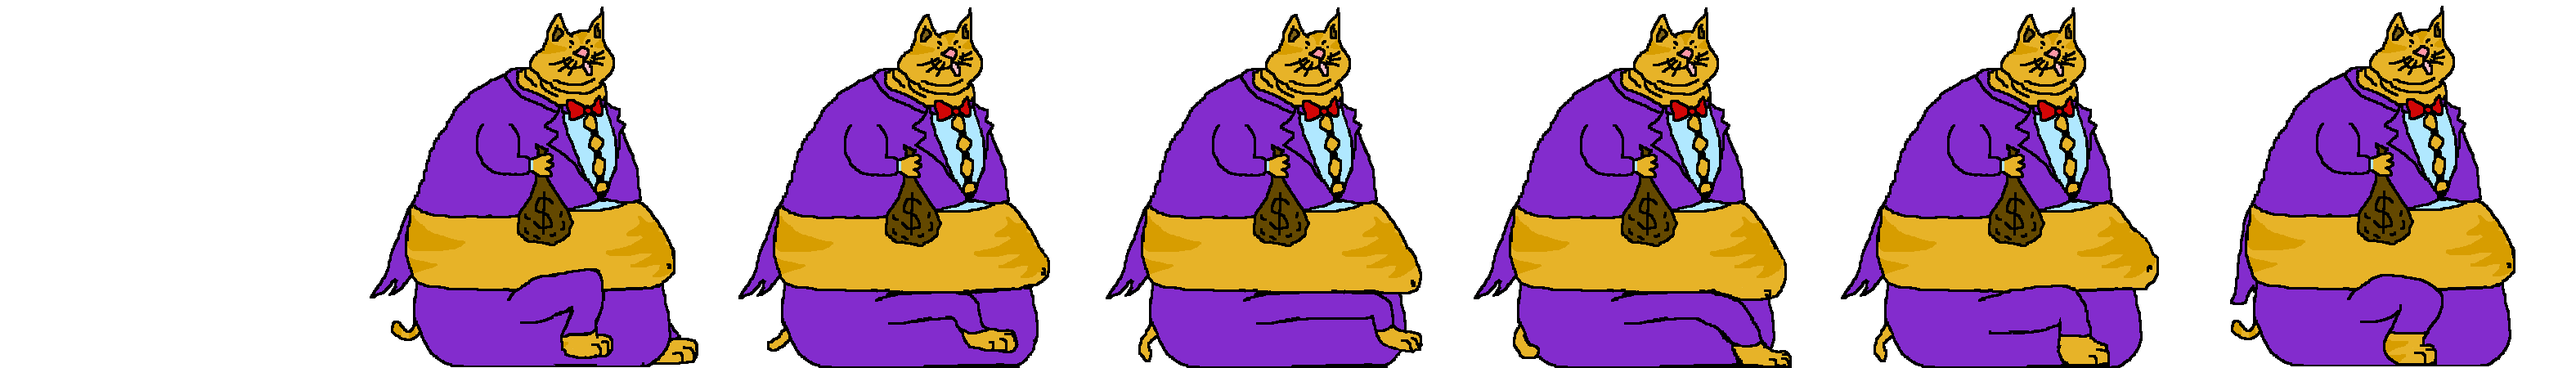
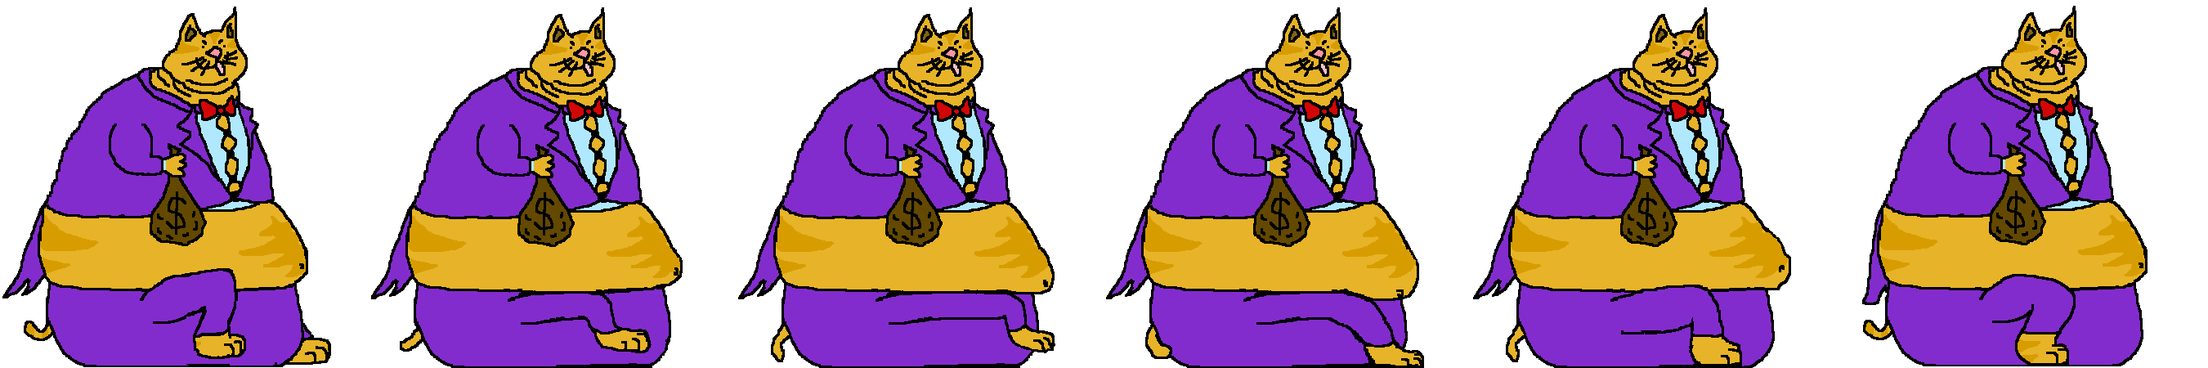
OH GOD
WTF

diff --git a/GameSlamProject/GameSlamProject/GameSlamProject/Game1.cs b/GameSlamProject/GameSlamProject/GameSlamProject/Game1.cs
@@ -29,6 +29,8 @@ namespace GameSlamProject
 
         List<SpriteSheet> repEnemySpriteSheets = new List<SpriteSheet>();
 
+        Enemy testee2;
+
         Sprite healthBar;
         SpriteFont HUDfont;
         TextItem healthText;
@@ -48,7 +50,7 @@ namespace GameSlamProject
          * RESTEE TESTEE
          */
 
-        Boss corporateFatCat;
+        Enemy corporateFatCat;
 
         #region Map Particles
         List<Particle> particles = new List<Particle>();
@@ -116,8 +118,15 @@ namespace GameSlamProject
             dunkin.pos = new Vector2(dunkin.spriteSheets[0].tex.Width + 125, world.GROUND_HEIGHT - dunkin.spriteSheets[0].tex.Height / 2);
             #endregion
 
-            repEnemySpriteSheets.Add(new SpriteSheet(Content.Load<Texture2D>("Rep1_Stand"), 60, 146, 1, 0, true));
-            repEnemySpriteSheets.Add(new SpriteSheet(Content.Load<Texture2D>("Rep_Run_cleansheet"), 70, 148, 8, 200, true));
+            repEnemySpriteSheets.Add(new SpriteSheet(Content.Load<Texture2D>("Fat_Cat"), 60, 146, 1, 0, true));
+            //repEnemySpriteSheets.Add(new SpriteSheet(Content.Load<Texture2D>("Rep_Run_cleansheet"), 70, 148, 8, 75, true));
+            repEnemySpriteSheets.Add(new SpriteSheet(Content.Load<Texture2D>("FatCat_Run"), 450, 450, 6, 200, true));
+            //testee2 = new Enemy(repEnemySpriteSheets, 300, 3.0f, 7.0f, world);
+            //testee2.pos = new Vector2(testee2.tex.Width + 500, world.GROUND_HEIGHT - testee2.tex.Height);
+            //testee2.pos = new Vector2(testee2.tex.Width + 500, world.GROUND_HEIGHT - testee2.tex.Height);
+            //testee2.vel = new Vector2(5.0f, 0.0f);
+            //testee2.isAnimatable = true;
+            //world.enemyList.Add(testee2);
 
             attilla = new Eagle(Content.Load<Texture2D>("therealeagle"), 10, graphics);
             attilla.visible = false;
@@ -132,12 +141,14 @@ namespace GameSlamProject
             //testee.vel = new Vector2(5.0f, 0.0f);
             //world.enemyList.Add(testee);
 
-            corporateFatCat = new Boss(Content.Load<Texture2D>("Fat_Cat"));
-            corporateFatCat.alive = false;
-            corporateFatCat.visible = false;
+            corporateFatCat = new Enemy(repEnemySpriteSheets, 300, 2.0f, 2.0f, world);
+            corporateFatCat.alive = true;
+            corporateFatCat.visible = true;
+            corporateFatCat.isAnimatable = true;
             corporateFatCat.pos = new Vector2(corporateFatCat.tex.Width / 2 + 5000, world.GROUND_HEIGHT - corporateFatCat.tex.Height / 2);
-            corporateFatCat.vel = new Vector2(2.0f, 0.0f);
-            //world.enemyList.Add(corporateFatCat);
+            //corporateFatCat.pos.X = 500;
+            corporateFatCat.vel = new Vector2(-2.0f, 0.0f);
+            world.enemyList.Add(corporateFatCat);
             
             particleTex = Content.Load<Texture2D>("flixel");
             republicanTex = Content.Load<Texture2D>("Rep1_Stand");
@@ -251,11 +262,17 @@ namespace GameSlamProject
             world.enemyList.Add(new Enemy(republicanTex, 300, 3.0f, 7.0f, world));
             foreach (Enemy e in world.enemyList)
             {
-                e.isAnimatable = false;
-                //foreach (SpriteSheet sheet in e.spriteSheets)
-                //{
-                //    sheet.pos = e.pos;
-                //}
+                if (e != corporateFatCat)
+                {
+                    e.isAnimatable = false;
+                }
+                else
+                {
+                    foreach (SpriteSheet sheet in e.spriteSheets)
+                    {
+                        sheet.pos = e.pos;
+                    }
+                }
             }
             //world.enemyList[world.enemyList.Count - 1].pos = new Vector2(world.enemyList[world.enemyList.Count - 1].tex.Width / 2 + 500, world.GROUND_HEIGHT - world.enemyList[world.enemyList.Count - 1].tex.Height / 2);
 
@@ -292,7 +309,7 @@ namespace GameSlamProject
             }
             #endregion
 
-            corporateFatCat.Update(gameTime, dunkin, world, 0);
+            //corporateFatCat.Update(gameTime, dunkin, world, 0);
 
             #region Background Code
             if (dunkin.pos.X > graphics.GraphicsDevice.Viewport.Width / 2 + 200 - dunkin.tex.Width / 2)
@@ -306,12 +323,12 @@ namespace GameSlamProject
                 }
             }
 
-            if (world.gameWindow.Intersects(world.boss))
-            {
-                corporateFatCat.alive = true;
-                corporateFatCat.visible = true;
-                //world.enemyList.Add(corporateFatCat);
-            }
+            //if (world.gameWindow.Intersects(world.boss))
+            //{
+            //    corporateFatCat.alive = true;
+            //    corporateFatCat.visible = true;
+            //    //world.enemyList.Add(corporateFatCat);
+            //}
 
             if (dunkin.pos.X < graphics.GraphicsDevice.Viewport.Width / 2 - 200 + dunkin.tex.Width / 2)
             {
@@ -342,7 +359,14 @@ namespace GameSlamProject
                 //{
                 //    e.Update(gameTime, dunkin, world, 0);
                 //}
-                e.Update(gameTime, dunkin, world, 0);
+                if (e != corporateFatCat)
+                {
+                    e.Update(gameTime, dunkin, world, 0);
+                }
+                else
+                {
+                    e.Update(gameTime, dunkin, world, 1);
+                }
             }
 
             #region Update Particle Code
@@ -467,16 +491,21 @@ namespace GameSlamProject
             {
                 if (e.alive == true)
                 {
-                    //if (e.animationState == Enemy.Animations.Running)
-                    //{
-                    //    e.Draw(spriteBatch, 1);
-                    //}
-                    //else
-                    //{
-                    //    e.Draw(spriteBatch, 0);
-                    //}
-
-                    e.Draw(spriteBatch);
+                    if (e != corporateFatCat)
+                    {
+                        e.Draw(spriteBatch);
+                    }
+                    else
+                    {
+                        if (e.animationState == Enemy.Animations.Running)
+                        {
+                            e.Draw(spriteBatch, 1);
+                        }
+                        else
+                        {
+                            e.Draw(spriteBatch, 0);
+                        }
+                    }
                 }
             }
 

diff --git a/GameSlamProject/GameSlamProject/GameSlamProject/Enemy.cs b/GameSlamProject/GameSlamProject/GameSlamProject/Enemy.cs
@@ -203,39 +203,45 @@ namespace GameSlamProject
                 alive = true;
                 health = 2;
 
-                if (random.NextDouble() < 0.5)
+                if (isAnimatable == false)
                 {
-                    pos = new Vector2(random.Next(-spawnRange, 0), world.GROUND_HEIGHT - tex.Height / 2);
-                }
-                else
-                {
-                    pos = new Vector2(random.Next(world.graphics.GraphicsDevice.Viewport.Width + 1, world.graphics.GraphicsDevice.Viewport.Width + spawnRange), world.GROUND_HEIGHT - tex.Height / 2);
-                }
-                if (pos.X < 0)
-                {
-                    vel = new Vector2(world.RandomBetween(minVelocity, maxVelocity), 0.0f);
-                }
-                else
-                {
-                    vel = new Vector2(-world.RandomBetween(minVelocity, maxVelocity), 0.0f);
+                    if (random.NextDouble() < 0.5)
+                    {
+                        pos = new Vector2(random.Next(-spawnRange, 0), world.GROUND_HEIGHT - tex.Height / 2);
+                    }
+                    else
+                    {
+                        pos = new Vector2(random.Next(world.graphics.GraphicsDevice.Viewport.Width + 1, world.graphics.GraphicsDevice.Viewport.Width + spawnRange), world.GROUND_HEIGHT - tex.Height / 2);
+                    }
+                    if (pos.X < 0)
+                    {
+                        vel = new Vector2(world.RandomBetween(minVelocity, maxVelocity), 0.0f);
+                    }
+                    else
+                    {
+                        vel = new Vector2(-world.RandomBetween(minVelocity, maxVelocity), 0.0f);
+                    }
                 }
 
-                //if (random.NextDouble() < 0.5)
-                //{
-                //    pos = new Vector2(random.Next(-spawnRange, 0), world.GROUND_HEIGHT - spriteSheets[0].tex.Height / 2);
-                //}
-                //else
-                //{
-                //    pos = new Vector2(random.Next(world.graphics.GraphicsDevice.Viewport.Width + 1, world.graphics.GraphicsDevice.Viewport.Width + spawnRange), world.GROUND_HEIGHT - spriteSheets[0].tex.Height / 2);
-                //}
-                //if (pos.X < 0)
-                //{
-                //    vel = new Vector2(world.RandomBetween(minVelocity, maxVelocity), 0.0f);
-                //}
-                //else
-                //{
-                //    vel = new Vector2(-world.RandomBetween(minVelocity, maxVelocity), 0.0f);
-                //}
+                if (isAnimatable == true)
+                {
+                    if (random.NextDouble() < 0.5)
+                    {
+                        pos = new Vector2(random.Next(-spawnRange, 0), world.GROUND_HEIGHT - spriteSheets[0].tex.Height / 2);
+                    }
+                    else
+                    {
+                        pos = new Vector2(random.Next(world.graphics.GraphicsDevice.Viewport.Width + 1, world.graphics.GraphicsDevice.Viewport.Width + spawnRange), world.GROUND_HEIGHT - spriteSheets[0].tex.Height / 2);
+                    }
+                    if (pos.X < 0)
+                    {
+                        vel = new Vector2(world.RandomBetween(minVelocity, maxVelocity), 0.0f);
+                    }
+                    else
+                    {
+                        vel = new Vector2(-world.RandomBetween(minVelocity, maxVelocity), 0.0f);
+                    }
+                }
             }
         }
 
